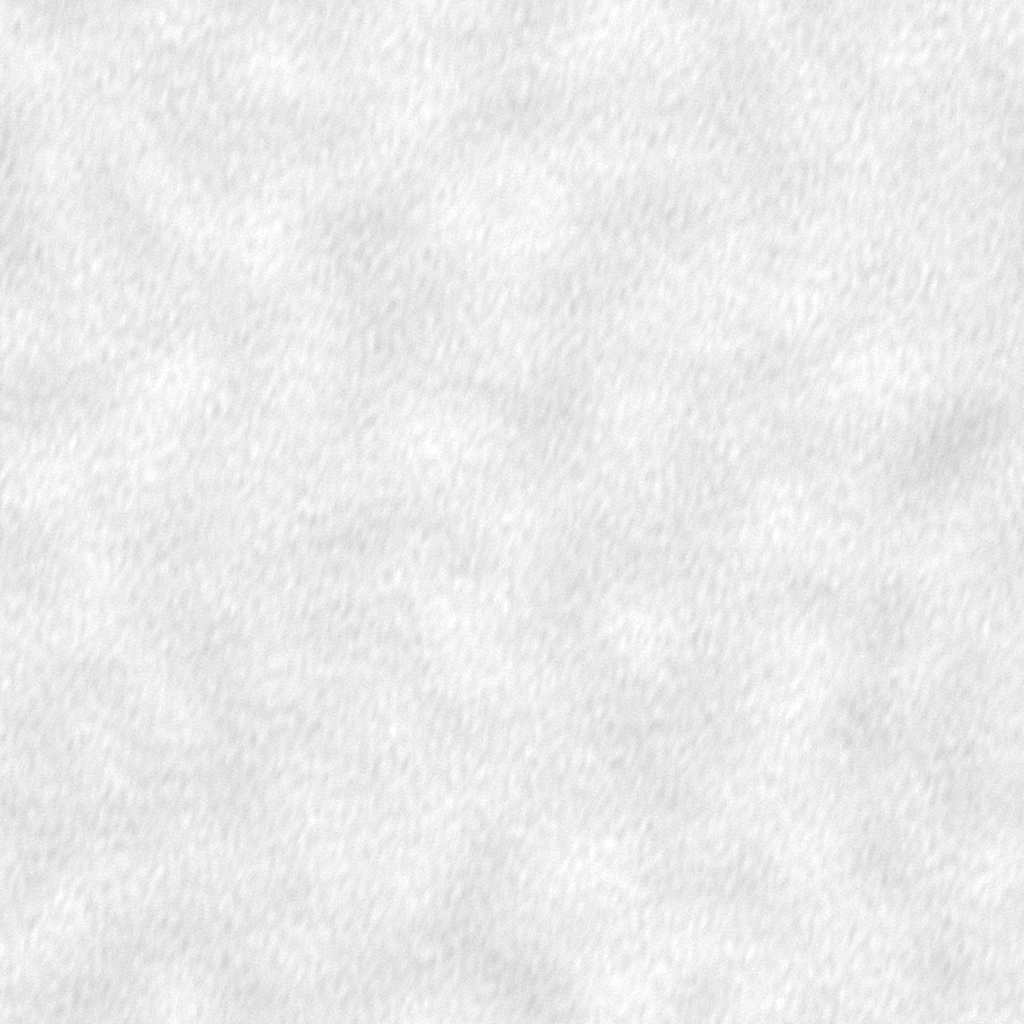
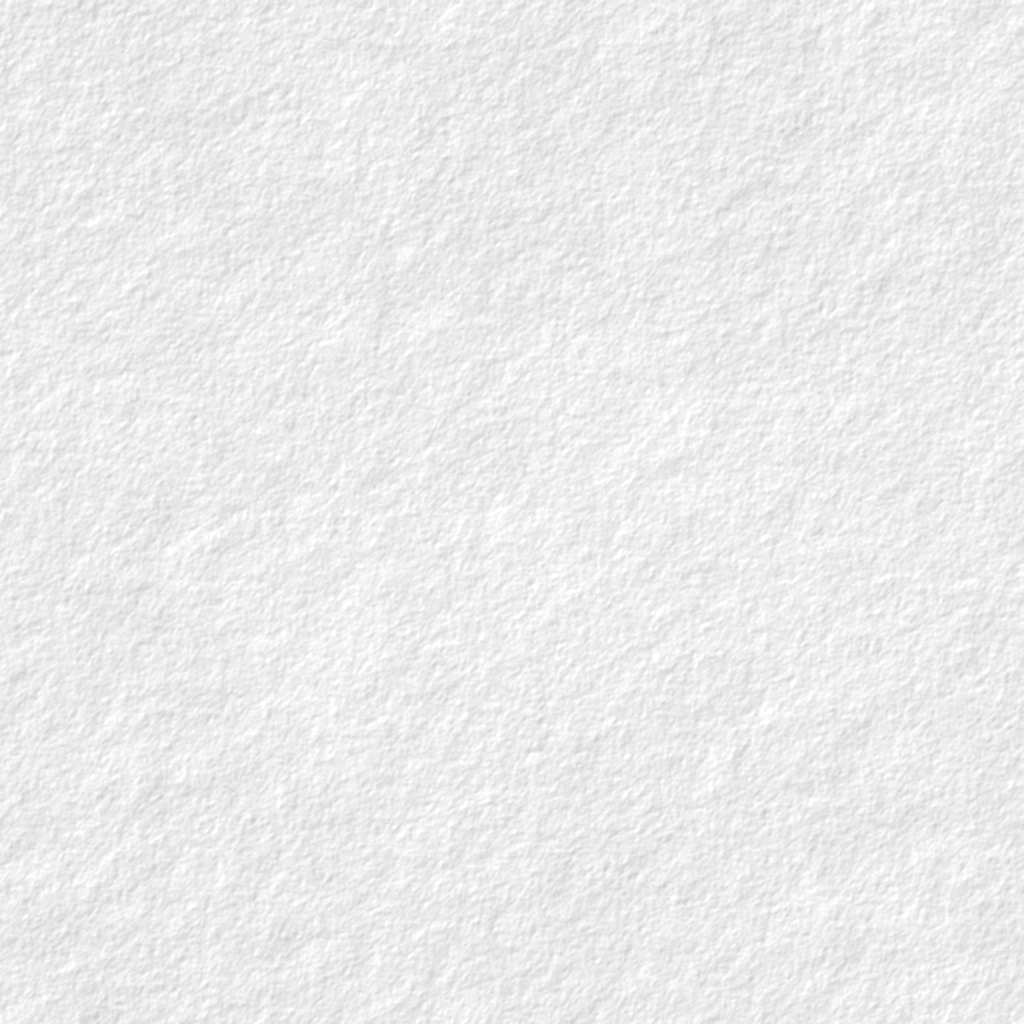
Фактуры рисуются программой: лён, светлая и книжная бумага
packaging/textures/make.py рисует бесшовные плитки (шум по кругу):
лён - настоящие нити основы и утка с утолщениями, бумага - волокна
и облачка массы, плотная - бугорки «холодного прессования» со светом
сбоку, старая - мягкие пятна. В ПРАВОВОЕ и AUTHORS: фактуры теперь
нарисованы кодом.

Claude-Session: https://claude.ai/code/session_01KZCacXiU3RRiQPw1Ee69wE

Changed region(s): [[0.9062, 0.4062, 0.9688, 0.4688]]

diff --git a/packaging/textures/make.py b/packaging/textures/make.py
@@ -1,0 +1,137 @@
+# StungKir - писательский блокнот. Copyright (C) 2026 KiriFesTung
+# SPDX-License-Identifier: GPL-3.0-or-later
+"""Фактуры фона и бумаги - рисуются программой, бесшовные (шум считается по кругу, края сходятся сами).
+python3 packaging/textures/make.py [папка art] - перезаписывает:
+  texture-linen.png, texture-paper.png        - полупрозрачные плитки фона под текстом (на любую тему);
+  paper/<book|rough|old>.png                   - серая бумага для «Как увидит читатель» (умножается на цвет);
+  paper/<book|rough|old>-overlay.png           - она же полупрозрачной плиткой для фона под текстом.
+Сукно стола для бросков - felt.py рядом."""
+
+import sys
+from pathlib import Path
+
+import numpy as np
+from PIL import Image
+
+SEED = 21
+
+
+def grid(n):
+    f = np.fft.fftfreq(n)
+    fx, fy = np.meshgrid(f, f)
+    return fx, fy
+
+
+def noise(rng, n, scale, power=1.0):
+    """Бесшовный шум: пятна размером около scale точек."""
+    fx, fy = grid(n)
+    radius = np.sqrt(fx ** 2 + fy ** 2)
+    radius[0, 0] = 1
+    spectrum = np.fft.fft2(rng.standard_normal((n, n))) / (radius * scale) ** power * np.exp(-(radius * scale) ** 2)
+    return norm(np.real(np.fft.ifft2(spectrum)))
+
+
+def blur(a, sigma):
+    fx, fy = grid(a.shape[0])
+    return np.real(np.fft.ifft2(np.fft.fft2(a) * np.exp(-2 * (np.pi * sigma) ** 2 * (fx ** 2 + fy ** 2))))
+
+
+def norm(a):
+    return (a - a.mean()) / (a.std() or 1)
+
+
+def fibers(rng, n, count, length, width, straight=0.012):
+    """Волокна бумаги: длинные тонкие изогнутые нити в случайных направлениях (по кругу через края)."""
+    out = np.zeros((n, n))
+    samples = int(max(length) * 1.5)
+    x0, y0 = rng.uniform(0, n, count), rng.uniform(0, n, count)
+    angle = rng.uniform(0, np.pi, count)
+    size = rng.uniform(*length, count)
+    bend = rng.normal(0, straight, count)
+    sign = rng.choice([-1.0, 1.0], count, p=[0.4, 0.6]) * rng.uniform(0.3, 1.0, count)
+    t = np.linspace(-0.5, 0.5, samples)
+    a = angle[:, None] + bend[:, None] * t[None, :] * size[:, None]
+    xs = (x0[:, None] + np.cos(a) * t[None, :] * size[:, None]) % n
+    ys = (y0[:, None] + np.sin(a) * t[None, :] * size[:, None]) % n
+    np.add.at(out, (ys.astype(int).ravel(), xs.astype(int).ravel()), np.repeat(sign, samples))
+    return norm(blur(out, width))
+
+
+def shade(height, light=(-1.0, -1.0)):
+    """Рельеф, освещённый слева сверху: бугорки светлеют с одной стороны и темнеют с другой."""
+    gy, gx = np.gradient(height)
+    return norm(-(gx * light[0] + gy * light[1]))
+
+
+def streaks(rng, n, along, across):
+    """Шум, вытянутый в одну сторону: вдоль нити меняется медленно, поперёк - быстро (по кругу, без швов)."""
+    fx, fy = grid(n)
+    spectrum = np.fft.fft2(rng.standard_normal((n, n)))
+    spectrum *= np.exp(-2 * np.pi ** 2 * ((fx * along) ** 2 + (fy * across) ** 2))
+    return norm(np.real(np.fft.ifft2(spectrum)))
+
+
+def weave(rng, n, threads):
+    """Лён: тонкие нити основы (вдоль) и утка (поперёк), у каждой свои утолщения и тон - как у настоящей
+    ткани, а не клеточка. Переплетение - лёгкая шашечка, чтобы нити ныряли друг под друга."""
+    period = n / threads
+    y, x = np.mgrid[0:n, 0:n].astype(float)
+    weft = np.cos(2 * np.pi * y / period) * (1 + 0.6 * streaks(rng, n, 40, 0.8))          # уток - поперёк
+    warp = np.cos(2 * np.pi * x / period) * (1 + 0.6 * np.rot90(streaks(rng, n, 40, 0.8)))  # основа - вдоль
+    tone_rows = streaks(rng, n, 120, 3)                     # нити светлее и темнее целиком
+    tone_cols = np.rot90(streaks(rng, n, 120, 3))
+    under = np.cos(np.pi * x / period) * np.cos(np.pi * y / period)          # шашечка переплетения
+    cloth = 0.5 * weft + 0.5 * warp + 0.35 * tone_rows + 0.35 * tone_cols + 0.25 * under
+    return norm(blur(cloth, 0.6))
+
+
+def overlay(relief, strength, light_share=0.5):
+    """Полупрозрачная плитка: светлые и тёмные точки с силой |рельеф|, ложится на любой фон."""
+    alpha = np.clip(np.abs(relief) * strength, 0, 255)
+    light = relief > np.quantile(relief, 1 - light_share)
+    rgba = np.zeros(relief.shape + (4,), np.uint8)
+    rgba[..., :3] = np.where(light[..., None], 255, 0)
+    rgba[..., 3] = alpha.astype(np.uint8)
+    return Image.fromarray(rgba, "RGBA")
+
+
+def gray(relief, mean, spread):
+    return Image.fromarray(np.clip(mean + relief * spread, 0, 255).astype(np.uint8), "L")
+
+
+def paper(rng, n, kind):
+    """Рельеф бумаги: волокна, облачка массы (неравномерность), для плотной - зерно, для старой - пятнышки."""
+    flocks = noise(rng, n, 10, 1.2)                          # облачка массы
+    fine = fibers(rng, n, n * 10, (14, 50), 0.6)           # тонкие волокна
+    grain = norm(blur(rng.standard_normal((n, n)), 0.7))   # мелкая зернистость
+    relief = 0.55 * flocks + 0.28 * fine + 0.3 * grain
+    if kind == "rough":                                     # «холодное прессование»: бугорки, освещённые сбоку
+        tooth = noise(rng, n, 5, 1.2)            # бугорки в несколько точек
+        relief = 0.8 * shade(tooth) + 0.15 * fine + 0.2 * flocks
+    if kind == "old":                                       # пожелтевшие края пятен и мелкие точки времени
+        stains = noise(rng, n, 160, 1.4)         # большие мягкие пятна
+        spots = np.zeros((n, n))
+        for _ in range(26):
+            x, y, r = rng.uniform(0, n), rng.uniform(0, n), rng.uniform(3, 11)
+            yy, xx = np.ogrid[0:n, 0:n]
+            dx, dy = np.minimum(abs(xx - x), n - abs(xx - x)), np.minimum(abs(yy - y), n - abs(yy - y))
+            spots -= np.exp(-(dx ** 2 + dy ** 2) / (2 * r * r)) * rng.uniform(0.5, 1.2)
+        relief = 0.65 * relief + 0.45 * stains + 0.12 * norm(spots + 0.001 * rng.standard_normal((n, n)))
+    return norm(relief)
+
+
+def main(art):
+    art = Path(art)
+    rng = np.random.default_rng(SEED)
+    linen = weave(rng, 512, 64)
+    overlay(linen, 5.5).save(art / "texture-linen.png", optimize=True)
+    light_paper = norm(0.4 * fibers(rng, 512, 4000, (12, 44), 0.6) + 0.6 * noise(rng, 512, 8, 1.2))
+    overlay(light_paper, 5.0, 0.6).save(art / "texture-paper.png", optimize=True)
+    for kind, mean, spread, strength in (("book", 242, 4.0, 9.0), ("rough", 236, 7.5, 9.0), ("old", 232, 6.5, 12.0)):
+        relief = paper(rng, 1024, kind)
+        gray(relief, mean, spread).save(art / "paper" / f"{kind}.png", optimize=True)
+        overlay(relief, strength, 0.4).save(art / "paper" / f"{kind}-overlay.png", optimize=True)
+
+
+if __name__ == "__main__":
+    main(sys.argv[1] if len(sys.argv) > 1 else Path(__file__).resolve().parents[2] / "stungkir" / "art")

diff --git a/AUTHORS.md b/AUTHORS.md
@@ -7,7 +7,7 @@
 
 ## Чужие части внутри
 
-- Рисунки в `stungkir/art/` (ласка, ворон, монетка, барабан, пробка, булавки, пупырка, мячик, фактуры, иконка, значки) - KiriFesTung, часть значков дорисована и выровнена Claude; та же лицензия, что у программы. Спиннер, песок, тумблеры, огонёк серии и кубики нарисованы кодом.
+- Рисунки в `stungkir/art/` (ласка, ворон, монетка, барабан, пробка, булавки, пупырка, мячик, иконка, значки) - KiriFesTung, часть значков дорисована и выровнена Claude; та же лицензия, что у программы. Спиннер, песок, тумблеры, огонёк серии, кубики и фактуры (бумага, лён, сукно - `packaging/textures/`) нарисованы кодом.
 - Звуки - синтезированы `packaging/sounds/make_sounds.py`, чужих записей нет.
 - Подробно о лицензиях и данных - `docs/ПРАВОВОЕ.md`.
 - Шрифты **DejaVu** - лицензия Bitstream Vera / Arev, см. `packaging/fonts/LICENSE-DejaVu.txt`.
